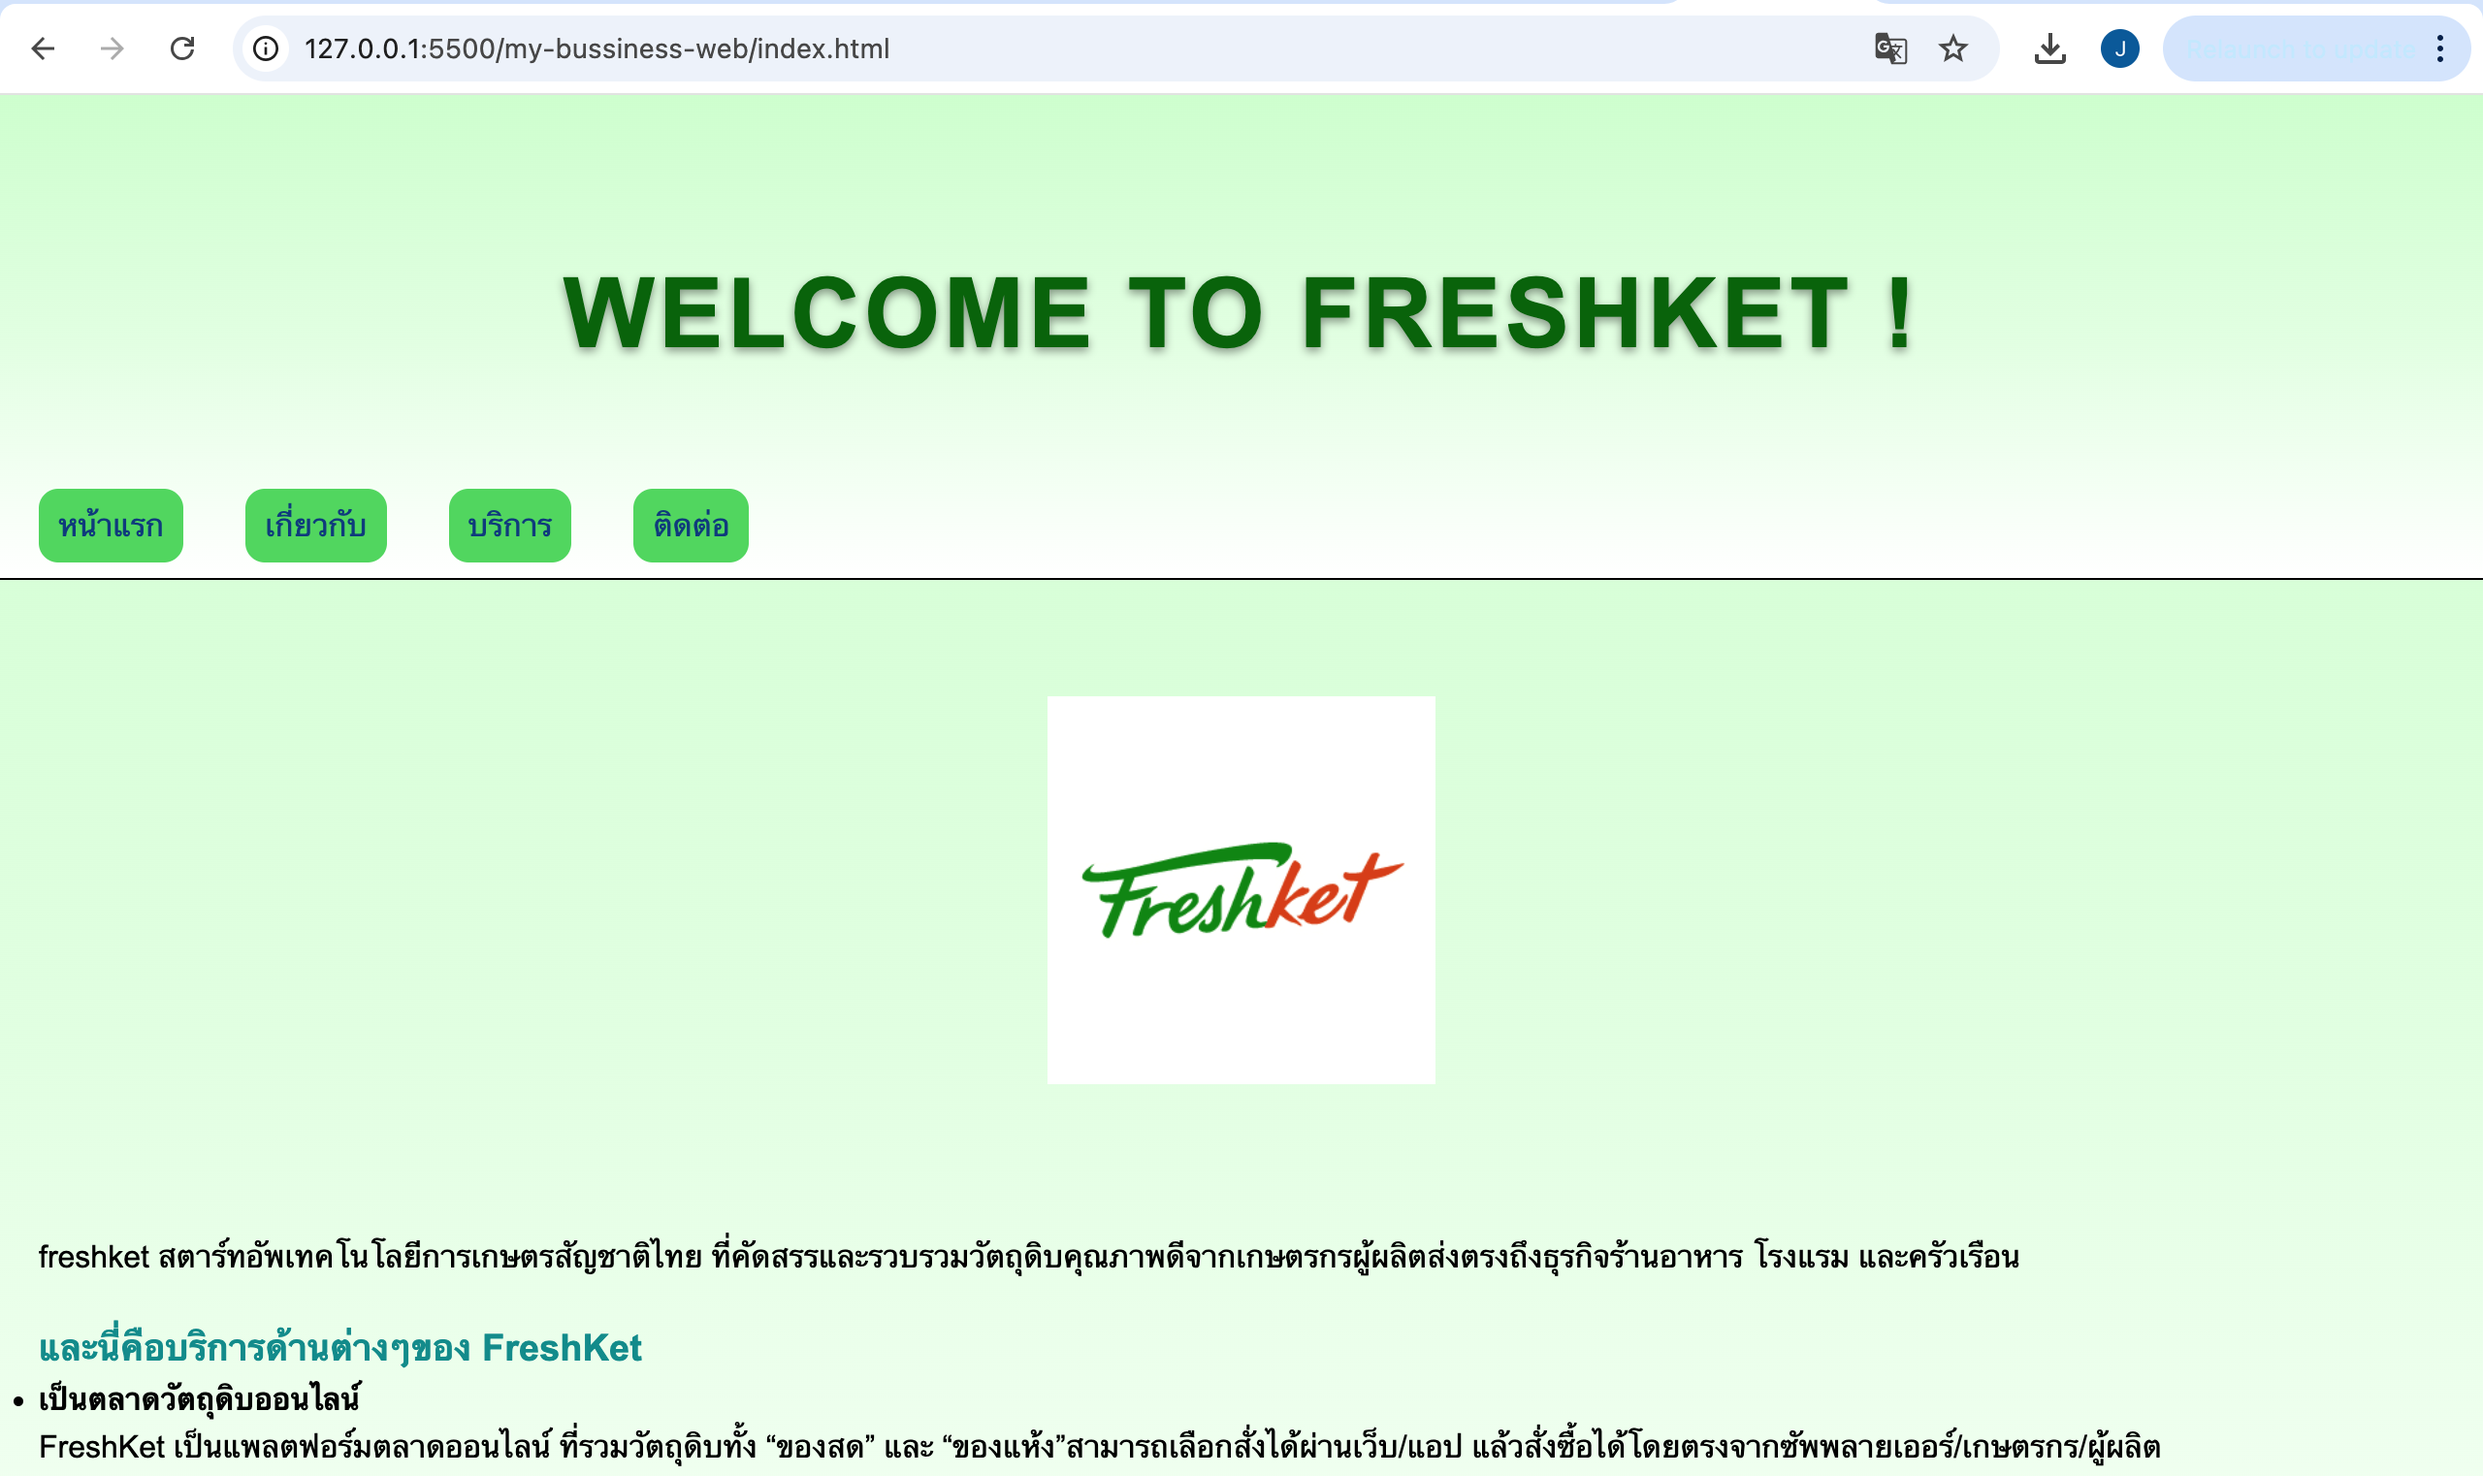
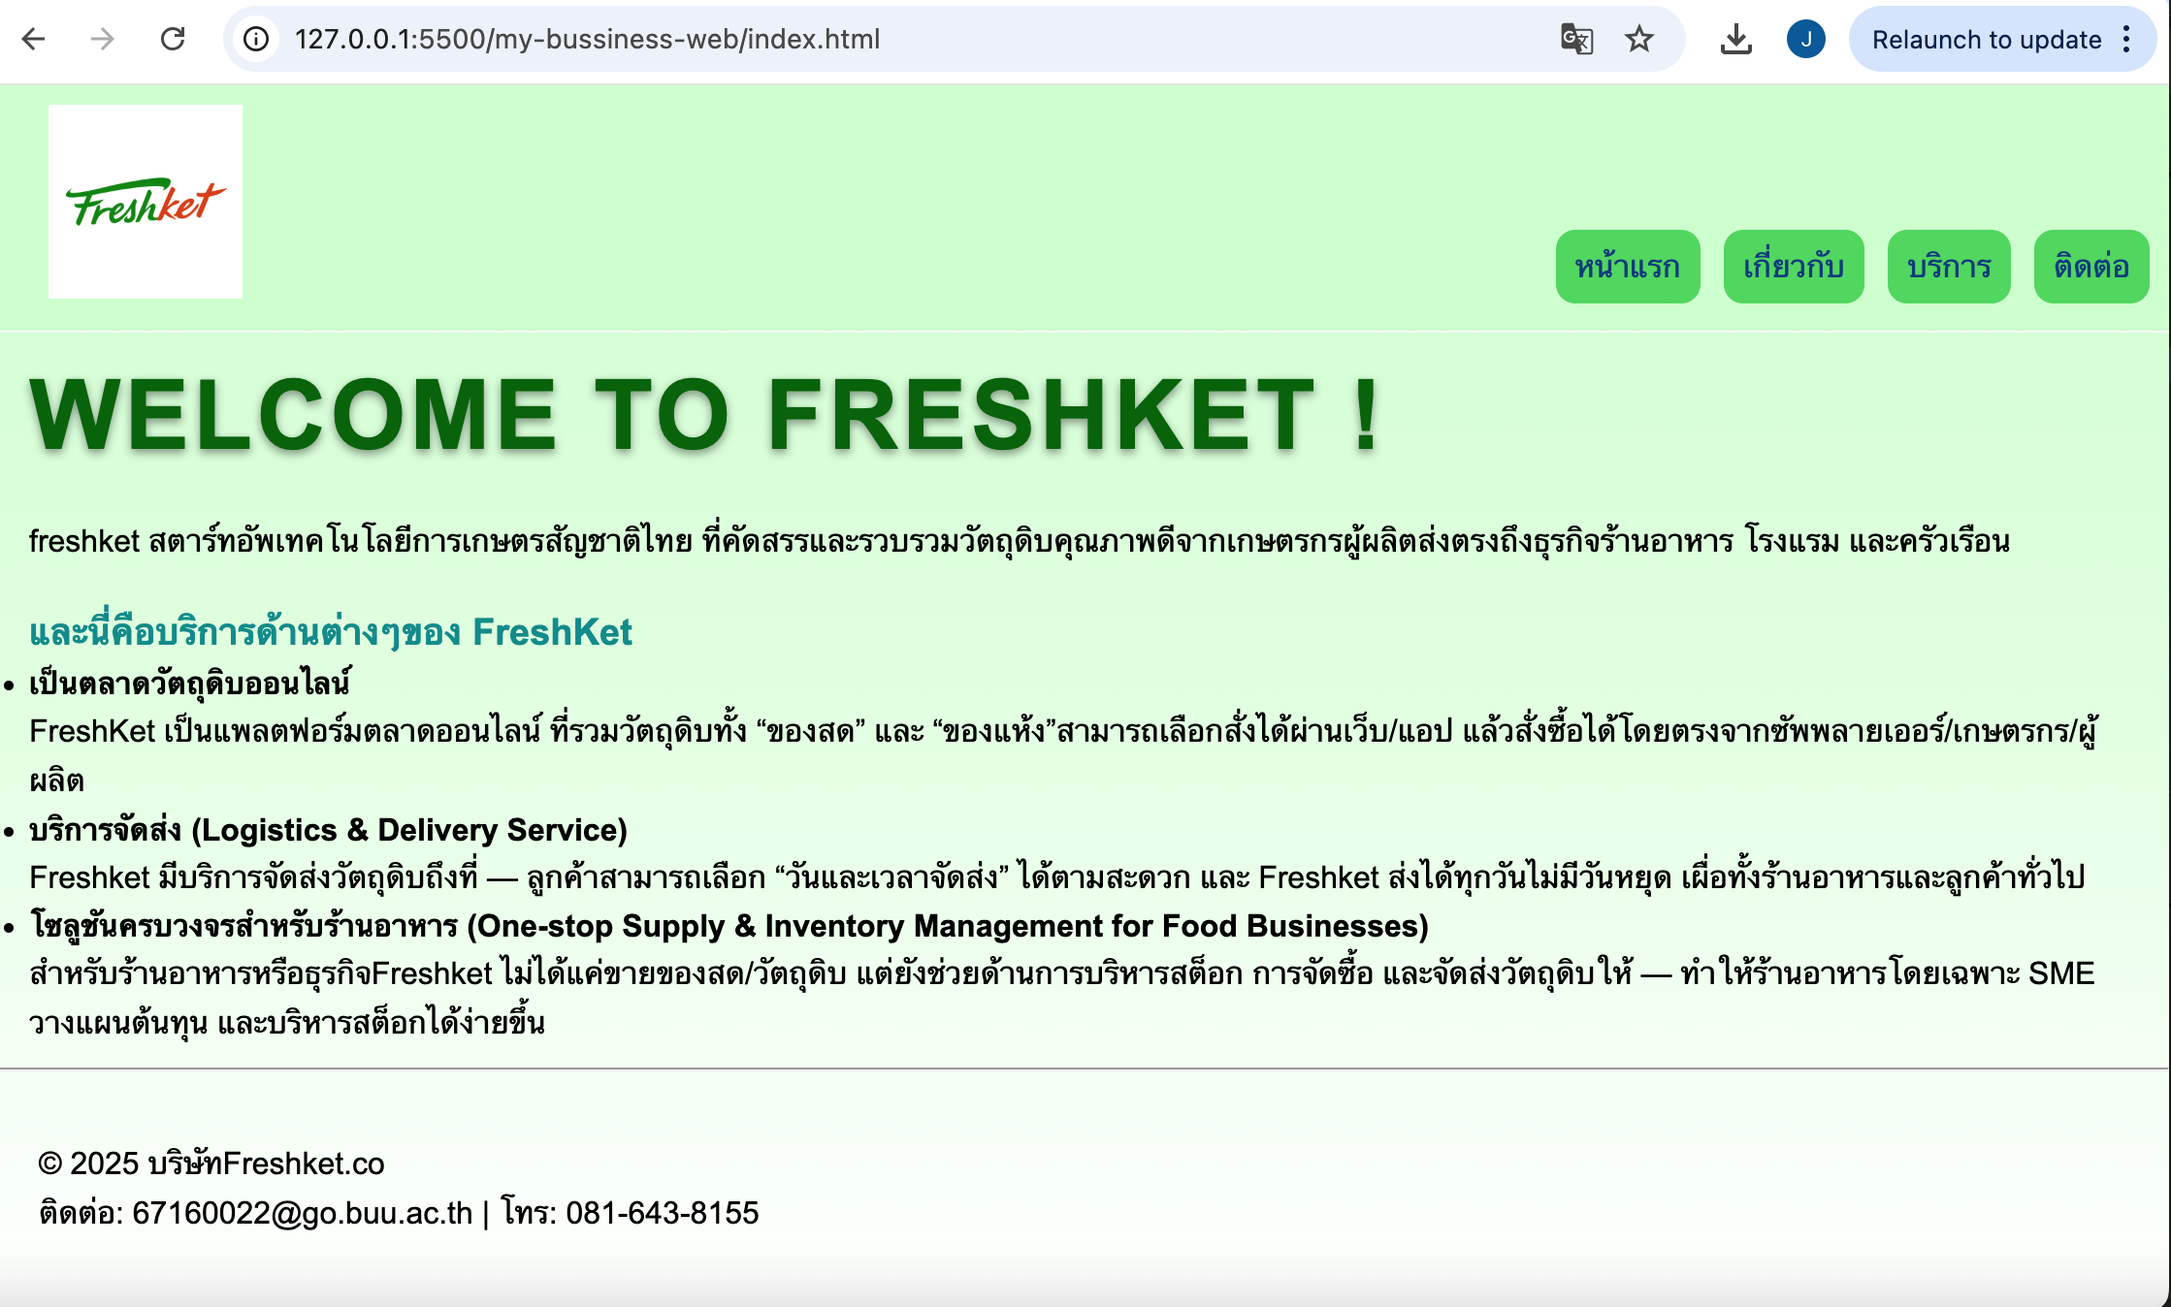
README Updated

diff --git a/styles.css b/styles.css
@@ -81,14 +81,14 @@ th:first-child {
 }
 #header {
   padding: 5px 10px;
-  border-bottom: 1px solid black;
+  border-bottom: 1px solid ghostwhite;
   margin: 0;
   display: flex;
   position: sticky;
   top: 0;
   align-items: center;
   z-index: 100;
-  background: linear-gradient(#ccffcc, #e0ffe0, #ffffff);
+  background: linear-gradient(#ccffcc);
 }
 .container {
   max-width: 1200px;

diff --git a/README.md b/README.md
@@ -30,14 +30,17 @@ my-business-web/
 # ลิงก์เข้าสู่หน้าต่างๆ
 
 [หน้าแรก](index.html)
-![index.html]()
+![index.html](images/index.png)
 
 [เกี่ยวกับเรา](about.html)
-![index.html]()
-![index.html]()
+![about.html](images/about1.png)
+![about.html](images/about2.png)
 
 [บริการของเรา](services.html)
-![index.html]()
+![services.html](images/services1.png)
+![services.html](images/services2.png)
+![services.html](images/services3.png)
 
 [ติดต่อเรา](contact.html)
-![index.html]()
+![contact.html](images/contact1.png)
+![contact.html](images/contact2.png)
